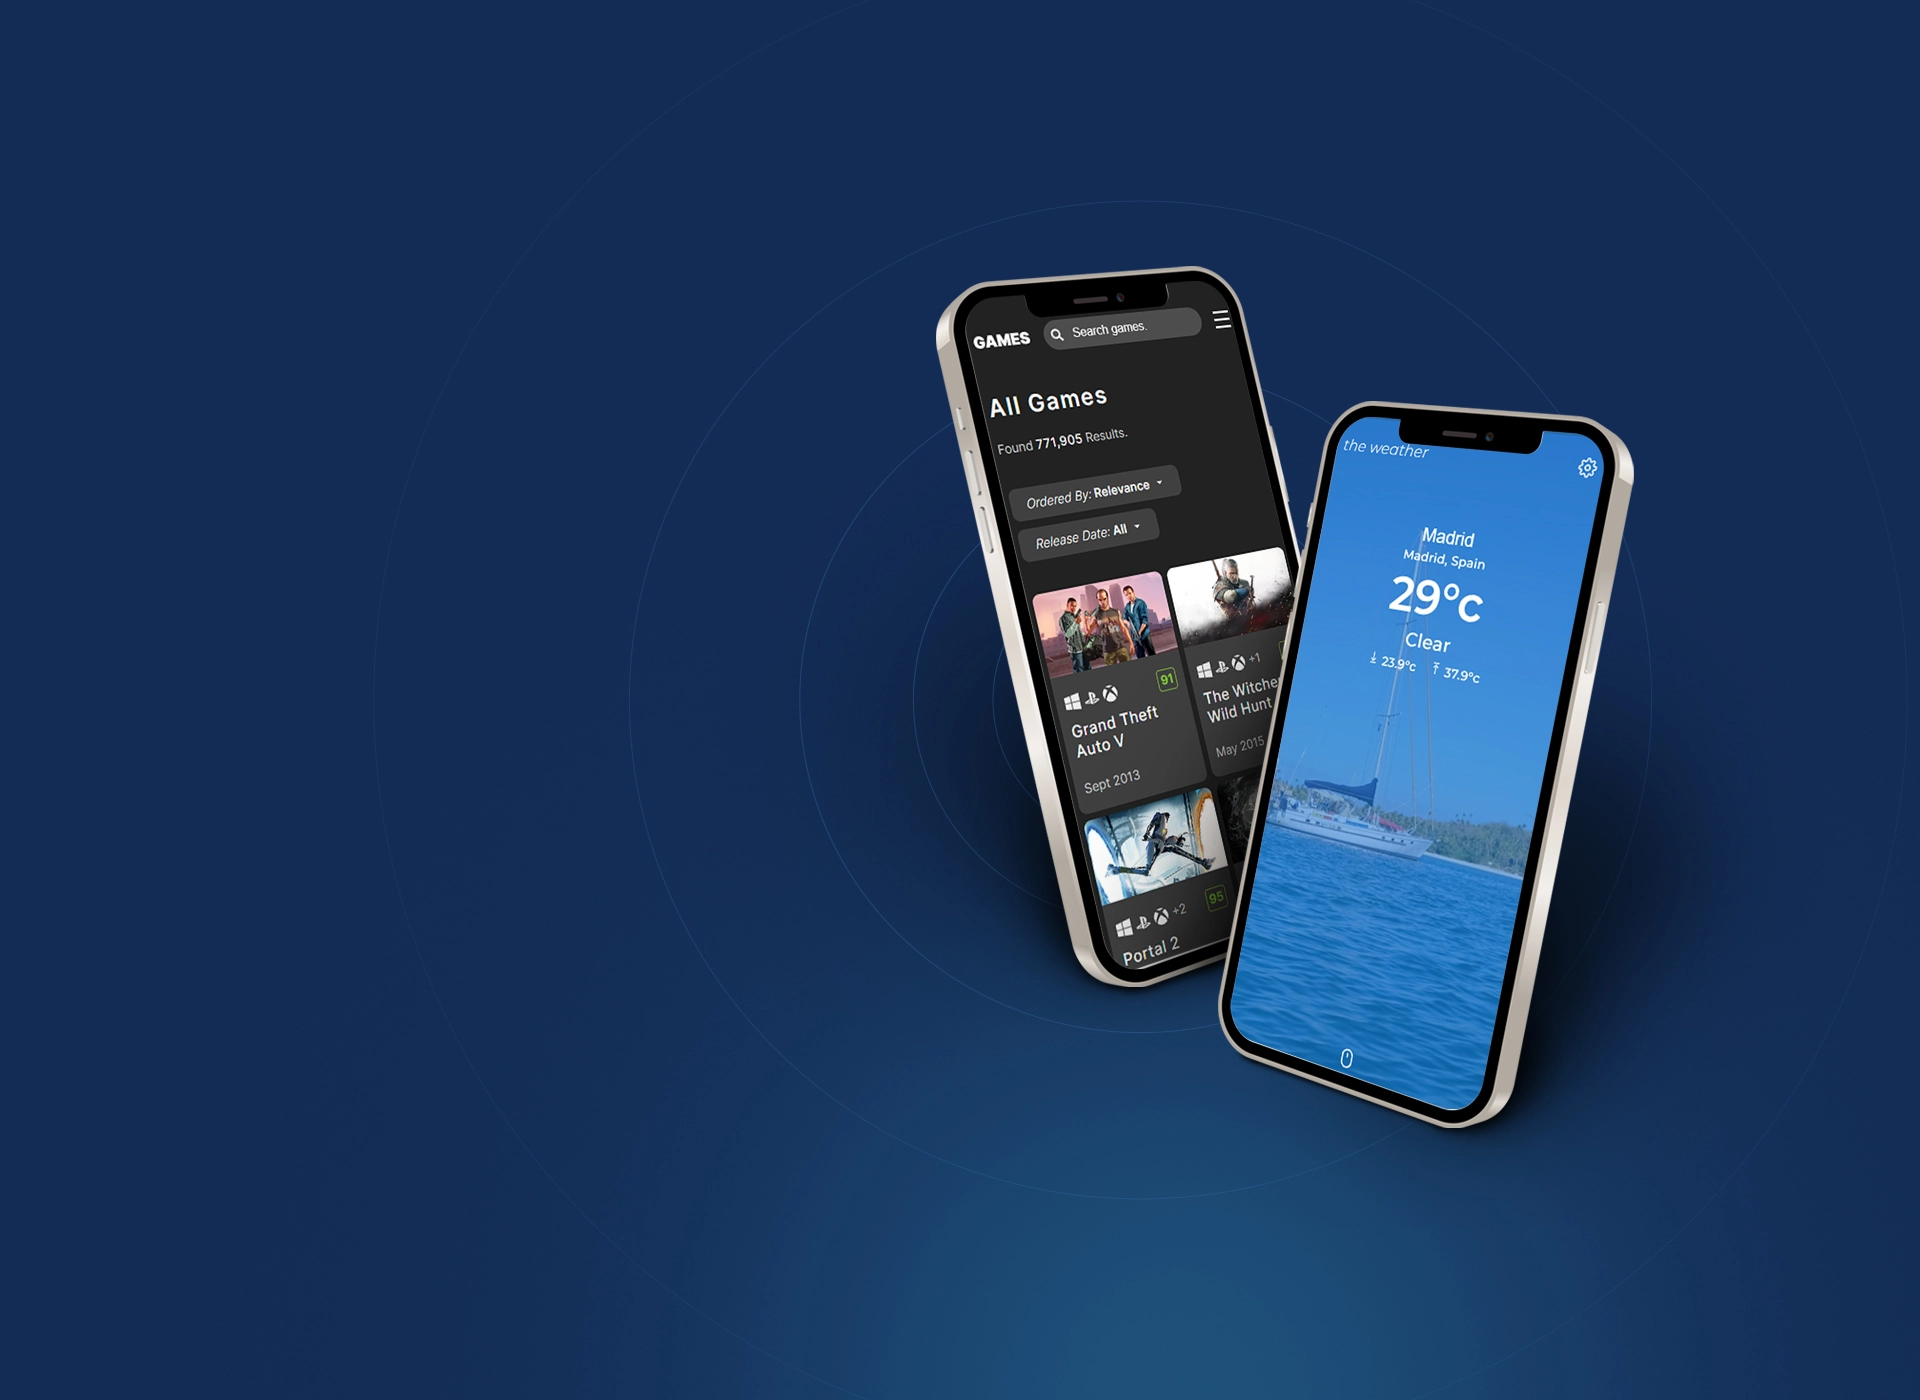
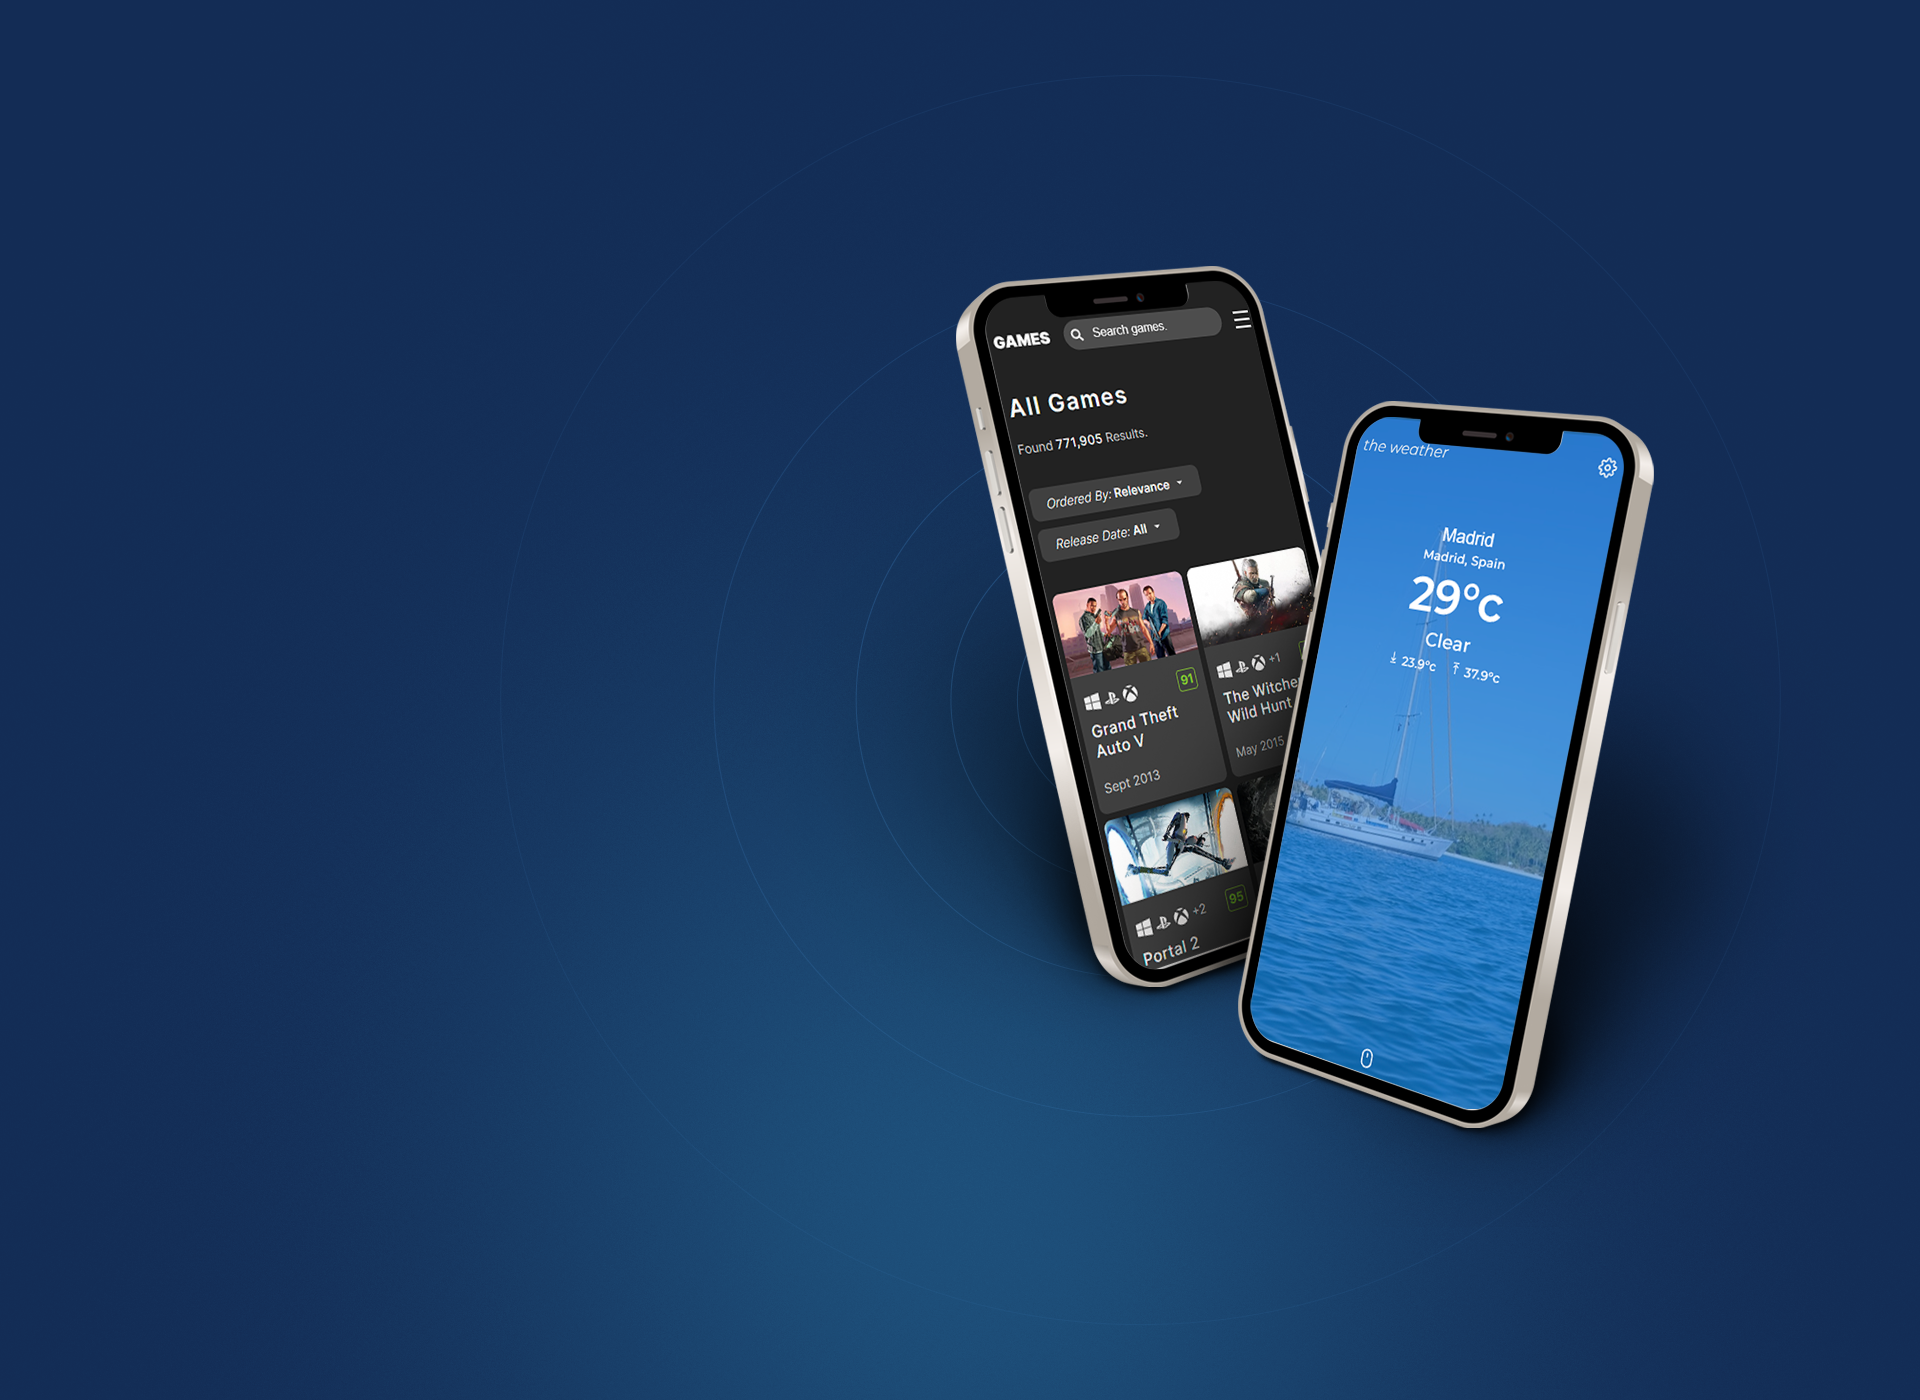
Updated Navbar, navbar.scss & hero background images.

Changed region(s): [[0.4688, 0.1843, 0.875, 0.8293], [0.4062, 0.6757, 0.4375, 0.7371]]

diff --git a/src/components/navbar/Navbar.tsx b/src/components/navbar/Navbar.tsx
@@ -16,16 +16,13 @@ export default function Navbar() {
   useAnimation(
     '.navbar-animate',
     '#navbar',
-    {
-      y: -300,
-      opacity: 0,
-    },
-    { y: 0, opacity: 1, duration: 1, delay: 0.3, ease: 'power2.Out' }
+    { y: -300 },
+    { y: 0, duration: 1, delay: 0.3, ease: 'power2.out' }
   );
 
   return (
-    <header className='navbar navbar-animate' id='navbar'>
-      <div className='container'>
+    <header className='navbar' id='navbar'>
+      <div className='container navbar-animate'>
         <Link to='/' className='logo'>
           Craig Puxty
         </Link>

diff --git a/src/components/navbar/_navbar.scss b/src/components/navbar/_navbar.scss
@@ -1,5 +1,5 @@
 .navbar {
-  position: absolute;
+  position: sticky;
   top: 0;
   left: 0;
   z-index: 100;
@@ -14,6 +14,7 @@
   justify-content: center;
 
   color: $body-text-light;
+  background-color: $dark-color;
 
   a {
     color: inherit;
